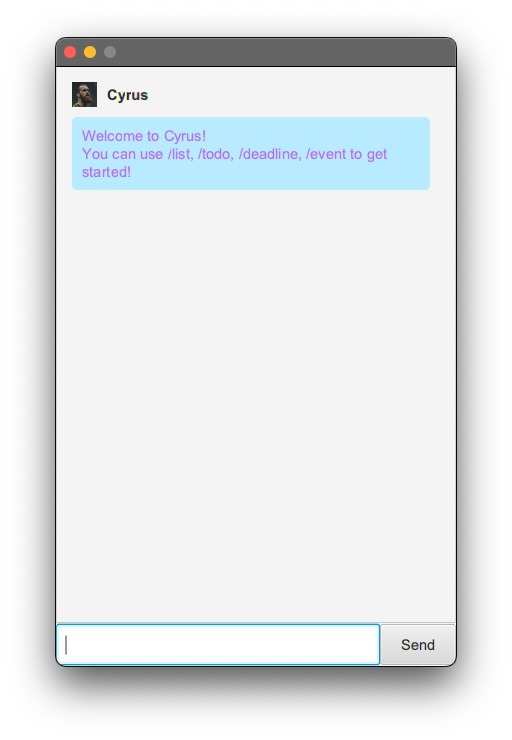
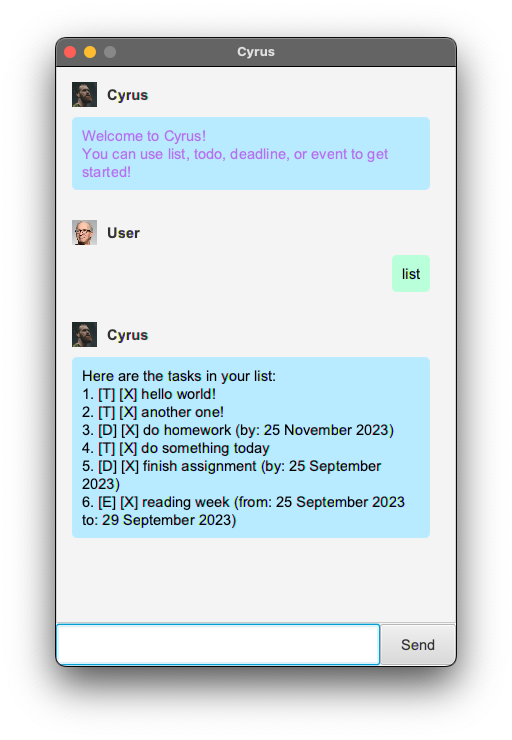
Clean up documentation

diff --git a/src/main/java/cyrus/ui/components/MainWindow.java b/src/main/java/cyrus/ui/components/MainWindow.java
@@ -57,7 +57,7 @@ public class MainWindow extends AnchorPane {
         scrollPane.vvalueProperty().bind(dialogContainer.heightProperty());
         dialogContainer.getChildren().add(
                 DialogBox.getDialog(
-                        "Welcome to Cyrus!\nYou can use list, todo, deadline, event to get started!",
+                        "Welcome to Cyrus!\nYou can use list, todo, deadline, or event to get started!",
                         BOT_TITLE,
                         botImage,
                         BOT_HELP_TEXT_COLOR
@@ -112,7 +112,7 @@ public class MainWindow extends AnchorPane {
     private void handleConversation(String userText, String botResponse, boolean isError, ParseInfo parseInfo) {
         putConversation(userText, botResponse, isError);
 
-        if (parseInfo.getCommandType().equals(CommandType.VIEW_STATISTICS)) {
+        if (parseInfo.getCommandType().equals(CommandType.VIEW_STATISTICS) && cyrus.getTaskList().size() > 0) {
             // Open the statistics dashboard
             openStatisticsDashboard();
         }

diff --git a/docs/README.md b/docs/README.md
@@ -38,8 +38,9 @@ Cyrus automatically saves your tasks locally so that you have access the same ta
 
 ### Statistics dashboard
 
-View the usage of Cyrus for task management by viewing the distribution of types of tasks (todo, deadline, and event) and
-the number of tasks completed every day within a week.
+View the usage of Cyrus for task management by viewing the distribution of types of tasks (todo, deadline, and event)
+and
+the number of tasks completed every day within the past week week.
 
 ![Statistics Dashboard](./res/img/statistics.png)
 
@@ -57,6 +58,11 @@ Expected outcome:
 
 ![list command](./res/img/list.png)
 
+Alternate cases:
+
+1. No tasks yet: message displayed will be "You do not have any tasks, use todo, deadline, or event to add new
+ones!".
+
 ### `todo` - Create a todo task
 
 Creates a todo task and saves to disk.
@@ -68,6 +74,11 @@ Example of usage:
 Expected outcome:
 
 ![todo command](./res/img/todo.png)
+
+Alternate cases:
+
+1. Missing todo body `todo`: will display error saying "ToDo is missing a body!".
+2. Including options `todo contains options /like this`: ignores the options and creates todo.
 
 ### `deadline` - Create a deadline task
 
@@ -81,6 +92,15 @@ Expected outcome:
 
 ![deadline command](./res/img/deadline.png)
 
+Alternate cases:
+
+1. Missing deadline body `deadline`: will display error saying "Deadline is missing a body!".
+2. Missing `/by` option `deadline do this thing`: will display error saying "Invalid deadline format: missing /by".
+3. `/by` option does not follow `dd/MM/yyyy` format `deadline do this /by tomorrow`: will display error saying "Invalid
+   deadline format: invalid by string, must be format dd/MM/yyyy".
+4. Including options other than `/by` `deadline do this /by 22/09/2023 /another option`: ignores the other options and
+   creates deadline.
+
 ### `event` - Create an event task
 
 Creates an event task and saves to disk.
@@ -92,6 +112,21 @@ Example of usage:
 Expected outcome:
 
 ![event command](./res/img/event.png)
+
+Alternate cases:
+
+1. Missing event body `event`: will display error saying "Event is missing a body!".
+2. Missing `/from` option `event carnival`: will display error saying "Invalid deadline format: missing /from".
+3. Missing `/to` option `event carnival /from 23/09/2023`: will display error saying "Invalid deadline format: missing
+   /to".
+4. `/from` option does not follow `dd/MM/yyyy` format `event carnival /from tomorrow /to 23/09/2023`: will display error
+   saying "Invalid event format: invalid from string, must be format dd/MM/yyyy".
+5. `/to` option does not follow `dd/MM/yyyy` format `event carnival /from 23/09/2023 /to Monday`: will display error
+   saying "Invalid event format: invalid to string, must be format dd/MM/yyyy".
+6. `/to` option comes before `/from` option `event carnival /to 23/09/2023 /from 22/09/2023`: event created without any
+   issues.
+7. Including options other than `/to` and `/from` `event carnival /from 22/09/2023 /to 23/09/2023 /another option`:
+   ignores the other options and creates the event.
 
 ### `mark` - Mark task as completed
 
@@ -105,6 +140,13 @@ Expected outcome:
 
 ![mark command](./res/img/mark.png)
 
+Alternate cases:
+
+1. No index provided `mark`: will display error saying "Missing task index".
+2. Index provided is not integer `mark hi`: will display error saying "Invalid task index: must be integer".
+3. Index provided does not correspond to any task index `mark 100`: will display error saying "Invalid task index: index out of bounds".
+4. Including options `mark 1 /like this`: ignores options and marks task as completed.
+
 ### `unmark` - Unmark completed task
 
 Unmarks completed task and saves to disk.
@@ -116,6 +158,8 @@ Example of usage:
 Expected outcome:
 
 ![unmark command](./res/img/unmark.png)
+
+Alternate cases: see alternate cases of `mark`.
 
 ### `delete` - Deletes a task
 
@@ -129,6 +173,8 @@ Expected outcome:
 
 ![delete command](./res/img/delete.png)
 
+Alternate cases: see alternate cases of `mark`.
+
 ### `find` - Finds tasks that contain given keyword
 
 Finds tasks that contain the given word.
@@ -141,6 +187,12 @@ Expected outcome:
 
 ![find command](./res/img/find.png)
 
+Alternate cases:
+
+1. Missing search term `find`: will display error saying "Missing search term".
+2. Search yields no results `find weofiweq`: will display message "No tasks found.".
+3. Including options `find hello /like this`: ignores options and performs `find` as per usual.
+
 ### `statistics` - Display statistics dashboard
 
 Provide statistics dashboard to view Cyrus usage in terms of distribution of task by
@@ -152,5 +204,10 @@ Example of usage:
 
 Expected outcome:
 
-![statistics command](./res/img/statistics_2.png)
+![statistics command](./res/img/statistics.png)
 
+Alternate cases:
+
+1. No tasks in list `statistics`: will display error saying "You do not have any tasks to view the statistics of!".
+2. Including argument `statistics hi`: ignores argument and performs `statistics` as per usual.
+3. Including options `statistics /test this`: ignores the options and performs `statistics` as per usual.
